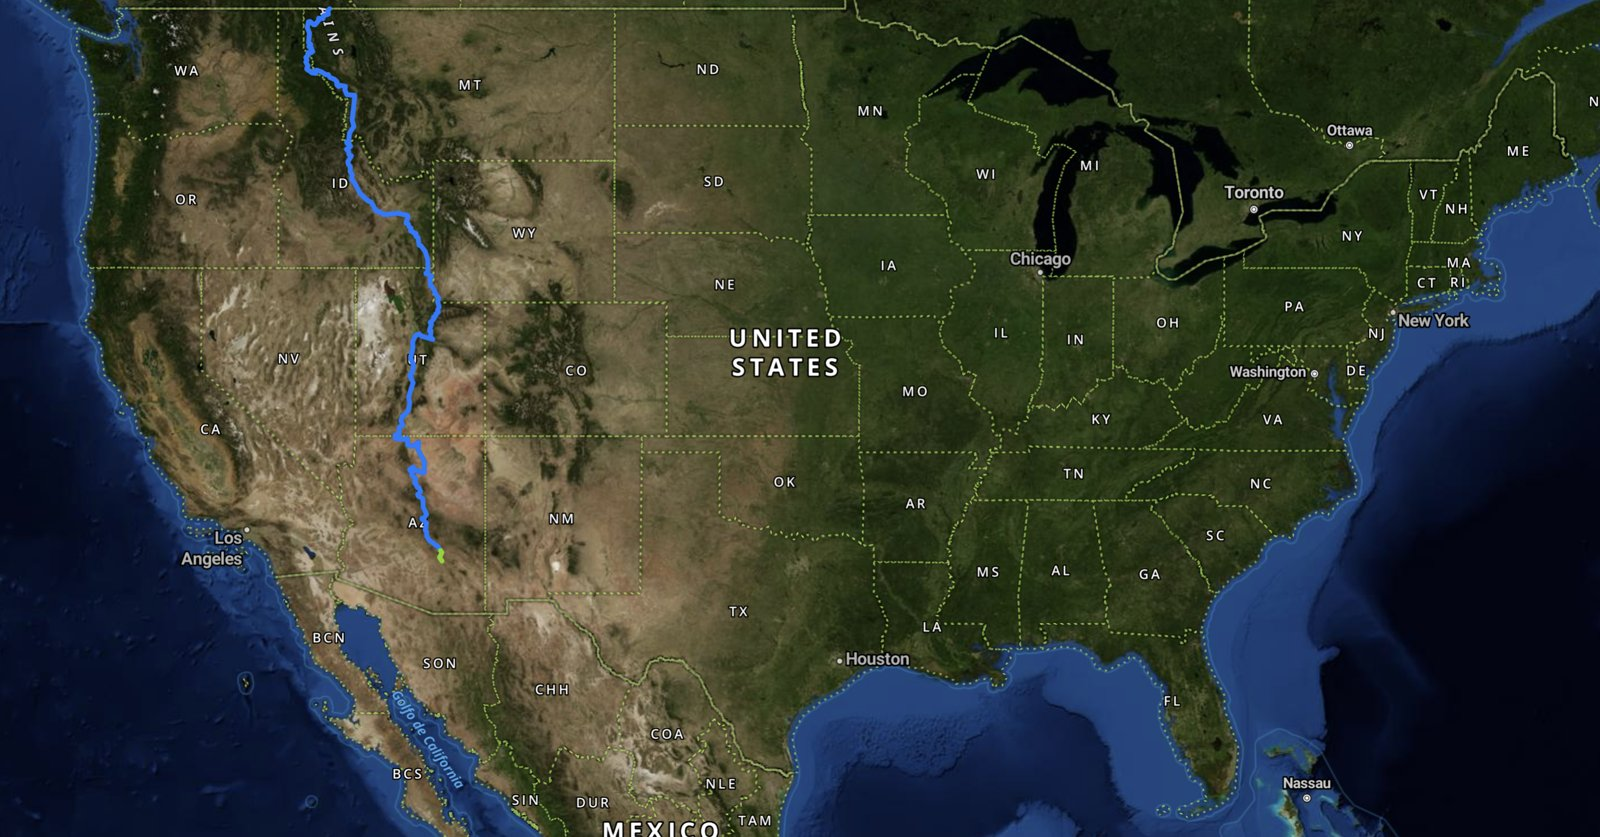
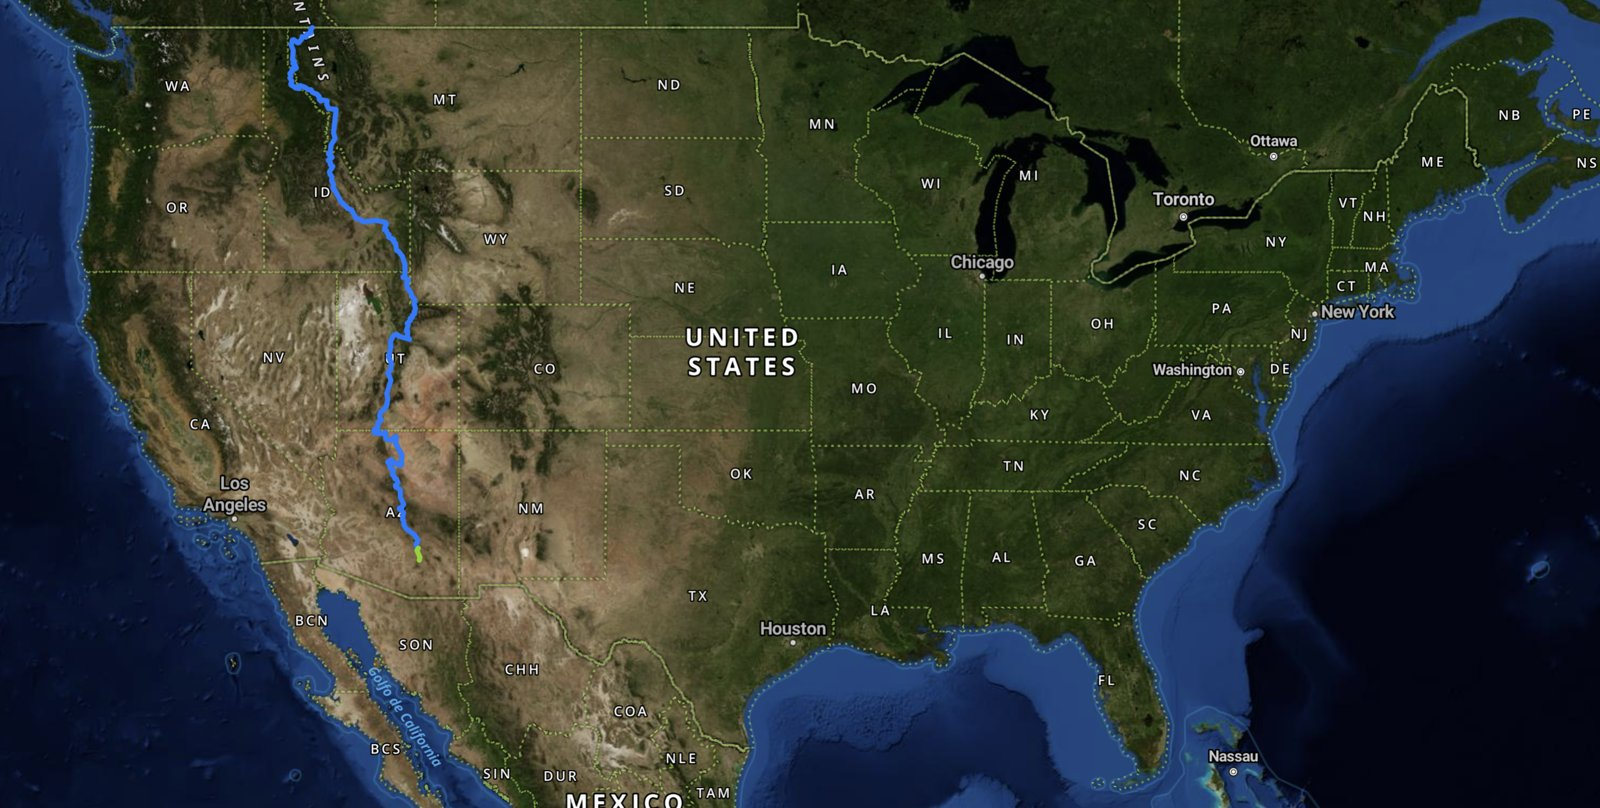
Progress map through day 38

diff --git a/rick/data.js b/rick/data.js
@@ -182,7 +182,7 @@ const LOCATION = {lat:32.655132, lng:-110.676848, town:"Cottonwood Wash", state:
 const STATUS = "The last segment is under way. After a Sunday off in Globe, Rick rode 29 miles to the Gila River on Monday and 33.7 more on Tuesday, day 38, down the valley through Winkelman and Mammoth and up to camp at Cottonwood Wash near Oracle. Tucson is just over the mountains, and the Mexican border at Sierra Vista is about 220 miles out. He is due there Saturday, Oct 17.";
 // Cover photo for the top of the tracker page (file name without .jpg, from rick/photos/). Use a wide crop; the bottom third fades into the page.
 // Zoomed-out map of the whole West with Rick's track so far (screenshot from the Windy/onX view). Re-shoot every few days, overwrite the same file, update asOf.
-const PROGRESS_MAP = {file:"wwr-progress-map", asOf:"Oct 12, 2026, end of day 37", caption:"Blue and green is Rick's track so far, Roosville to the Gila River south of Globe, with day 37 in green. All that is left is the last stretch south to the Mexican border at Sierra Vista."};
+const PROGRESS_MAP = {file:"wwr-progress-map", asOf:"Oct 13, 2026, end of day 38", caption:"Blue and green is Rick's track so far, Roosville to Cottonwood Wash north of Tucson, with day 38 in green. The Mexican border at Sierra Vista is all that is left."};
 const COVER = "2026-09-06-roosville-start-cover";
 
 // Photos: file names live in rick/photos/. Add the full-size jpg plus a -thumb.jpg. Newest first.
@@ -345,5 +345,5 @@ const PHOTOS = [
   {file:"2026-09-06-koocanusa-bridge", date:"2026-09-06", time:"13:36", caption:"Day 1. The Lake Koocanusa bridge from the road above, the longest bridge in Montana, over the Kootenai River backed up behind Libby Dam."},
   {file:"2026-09-06-roosville-start", date:"2026-09-06", time:"10:02", caption:"Day 1. Rick and the loaded bike at the Roosville border crossing, ready to roll south."},
 ];
-const LAST_UPDATED = "Oct 13, 2026, 4:55 pm MT";
+const LAST_UPDATED = "Oct 13, 2026, 5:05 pm MT";
 // ===== END DATA =====
